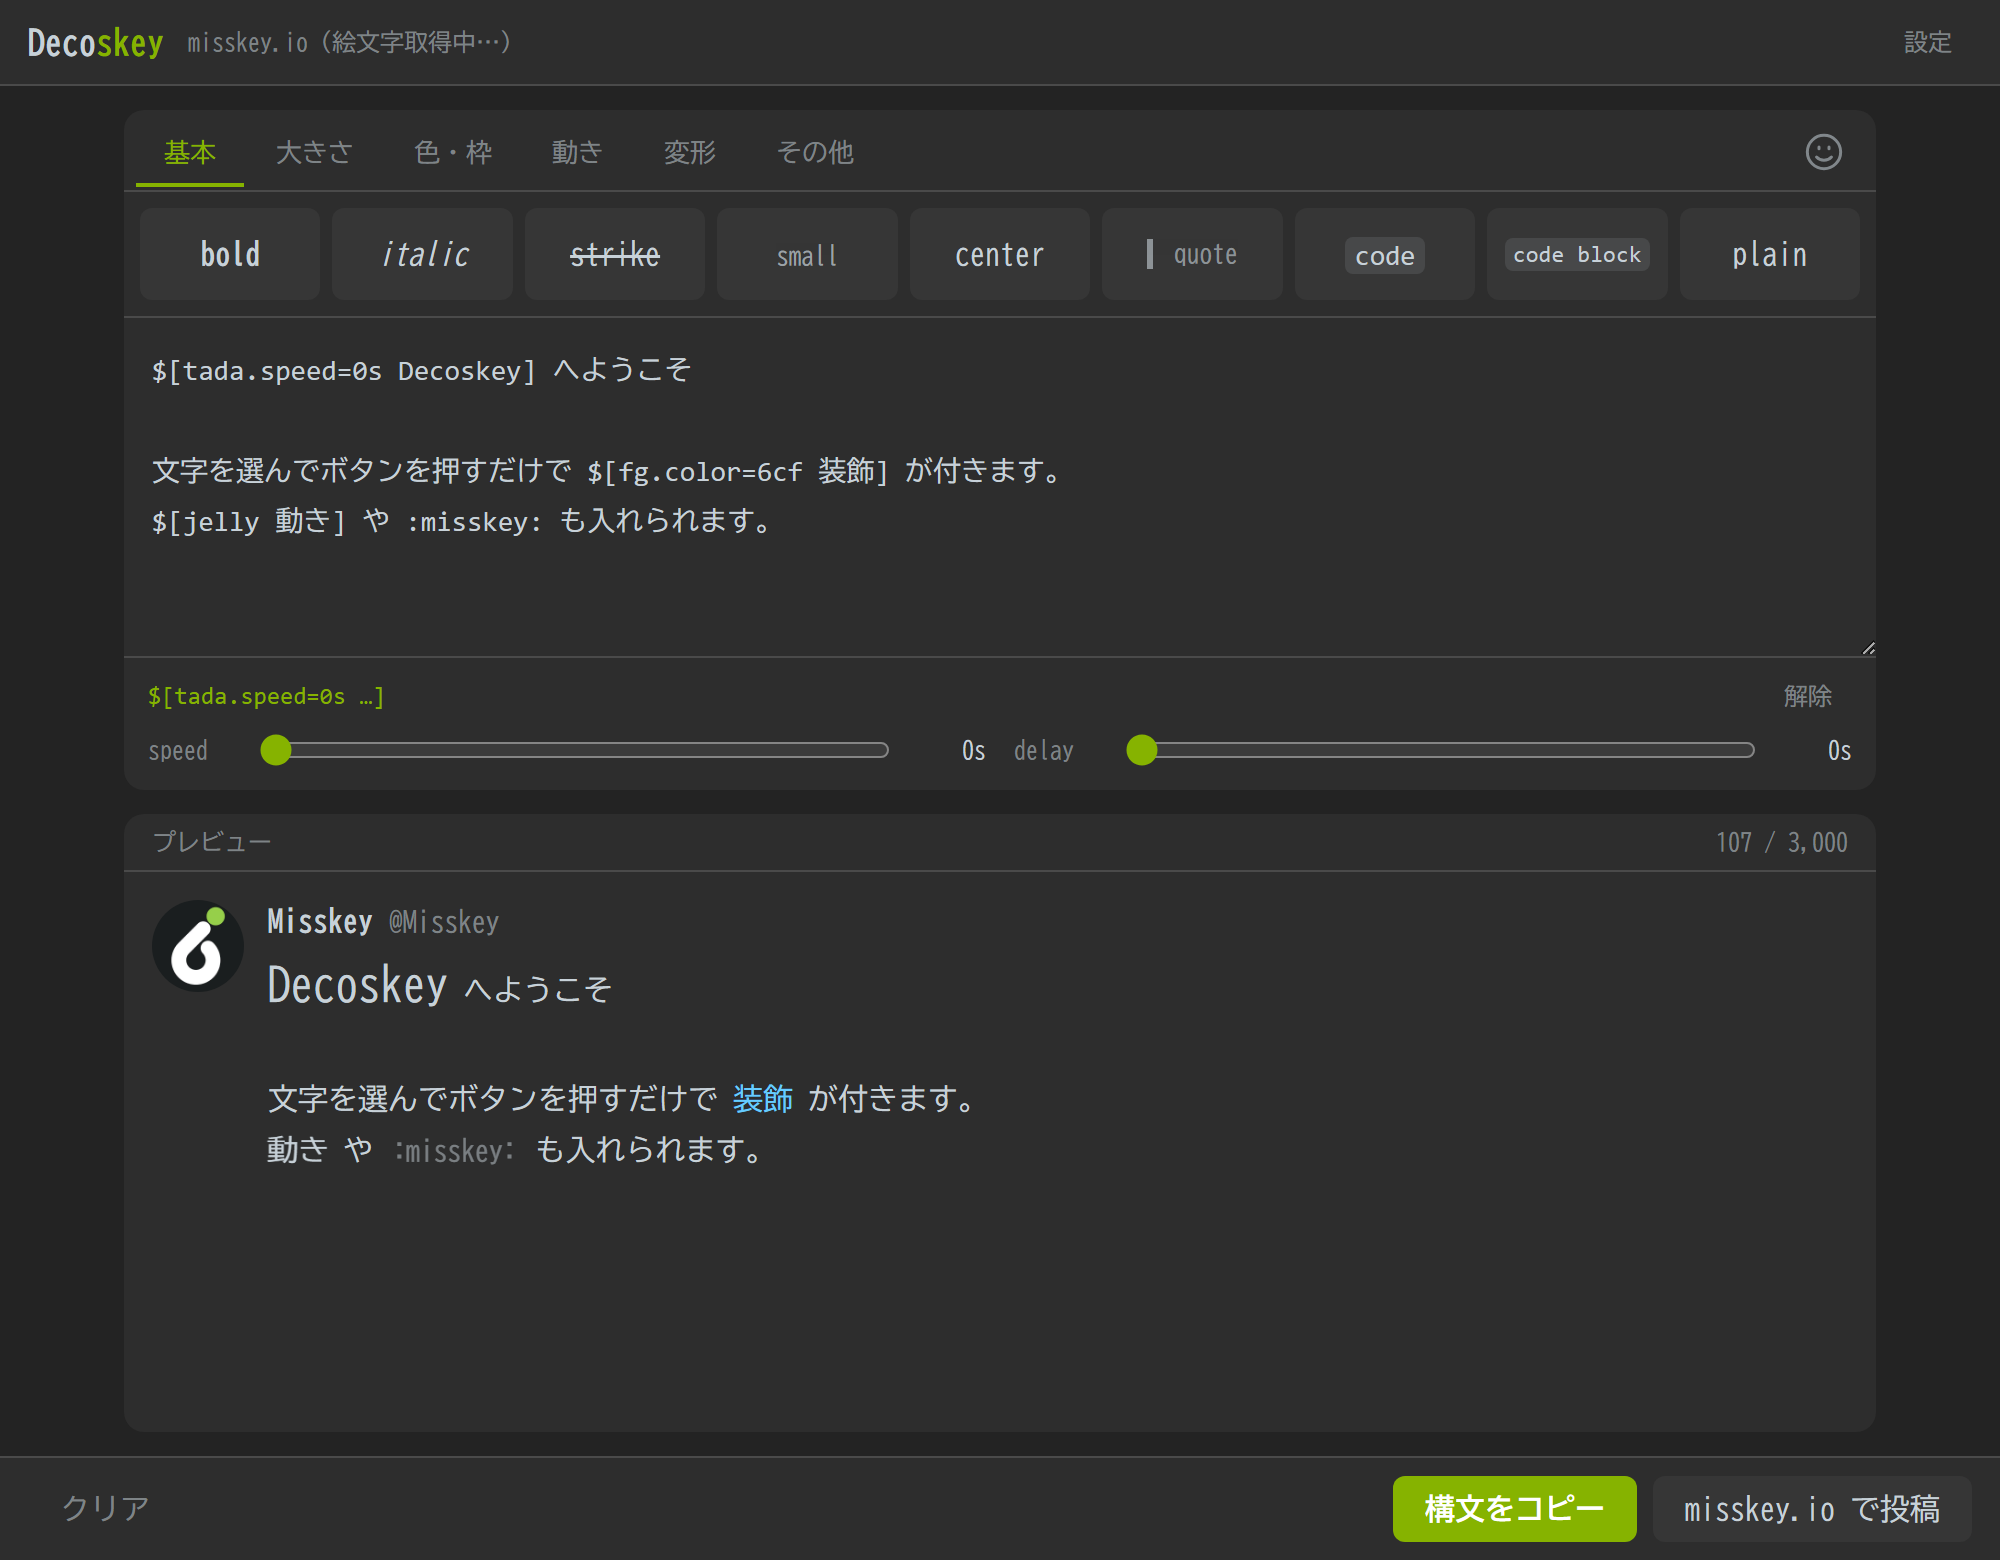
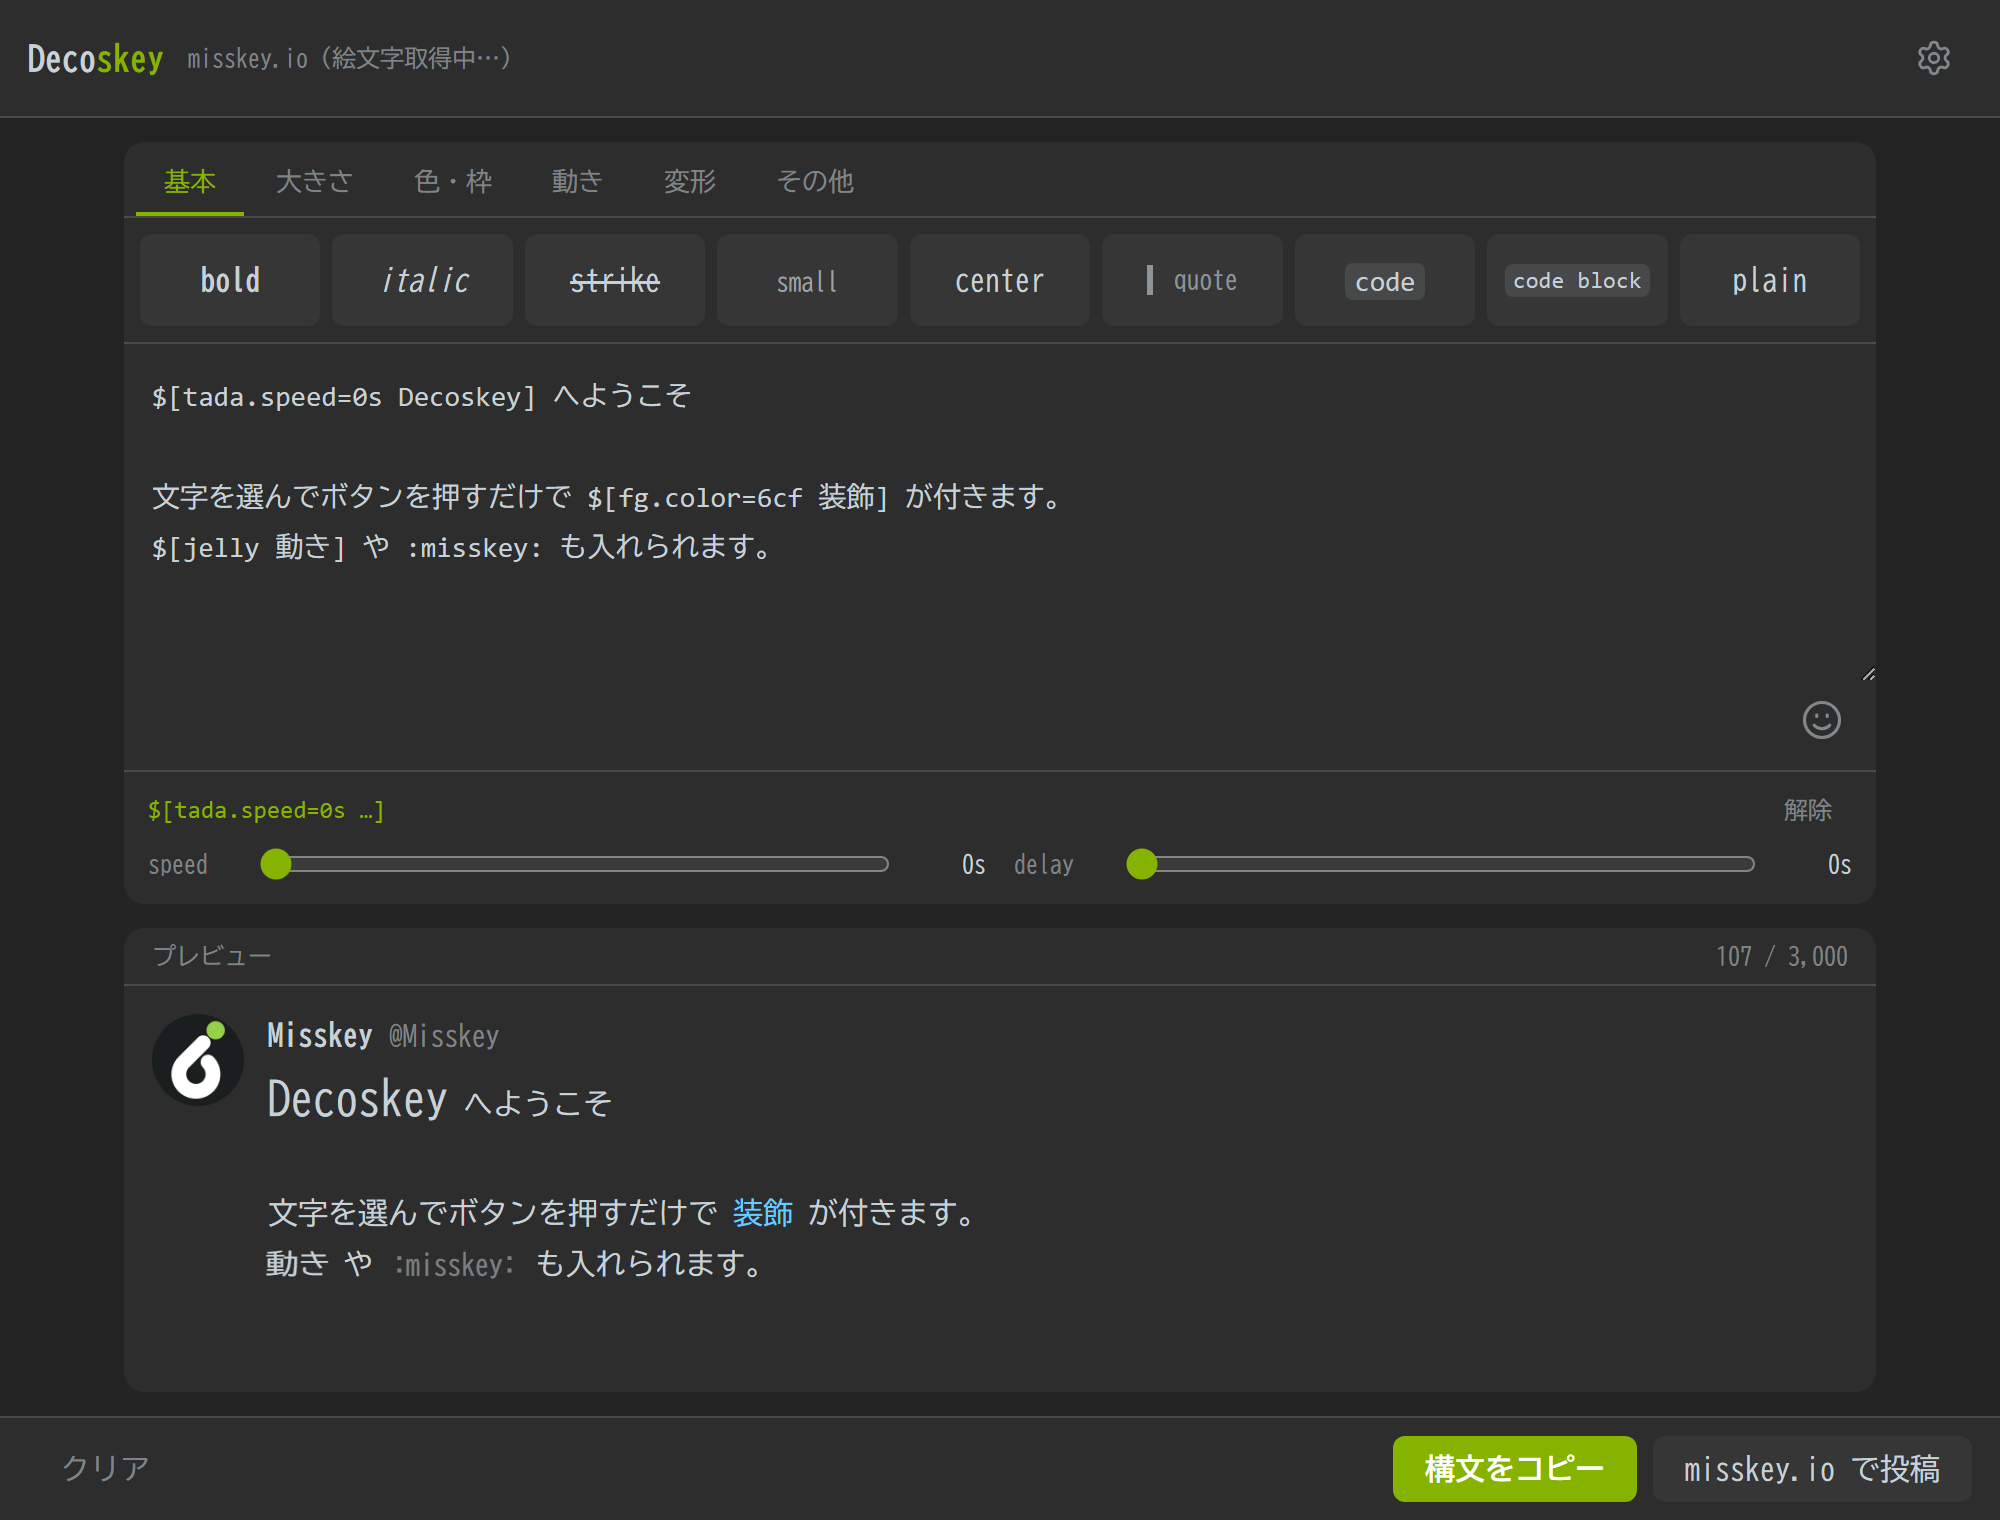
Improve mobile usability and start with an empty editor

diff --git a/src/App.tsx b/src/App.tsx
@@ -1,4 +1,5 @@
 import { useCallback, useEffect, useLayoutEffect, useMemo, useRef, useState } from 'react'
+import { Settings as SettingsIcon, Smile } from 'lucide-react'
 import { Toolbar } from './components/Toolbar'
 import { Preview } from './components/Preview'
 import { ParamPanel } from './components/ParamPanel'
@@ -19,19 +20,11 @@ import {
   type Settings,
 } from './lib/storage'
 
-const SAMPLE_TEXT = `$[tada.speed=0s Decoskey] へようこそ
-
-文字を選んでボタンを押すだけで $[fg.color=6cf 装飾] が付きます。
-$[jelly 動き] や :misskey: も入れられます。`
-
 const TEXT_LIMIT = 3000
 
 export default function App() {
   const [settings, setSettings] = useState<Settings>(() => loadSettings())
-  const [text, setText] = useState<string>(() => {
-    const draft = loadDraft()
-    return draft === '' ? SAMPLE_TEXT : draft
-  })
+  const [text, setText] = useState<string>(() => loadDraft())
   const [selection, setSelection] = useState({ start: 0, end: 0 })
   const [emojis, setEmojis] = useState<Emoji[]>([])
   const [emojiFetchedAt, setEmojiFetchedAt] = useState<number | null>(null)
@@ -226,8 +219,14 @@ export default function App() {
           {settings.host}
           {emojiLoading ? '（絵文字取得中…）' : emojis.length > 0 ? `（絵文字 ${emojis.length.toLocaleString('ja-JP')}）` : ''}
         </span>
-        <button type="button" className="btn btn-ghost btn-sm" onClick={() => setSettingsOpen(true)}>
-          設定
+        <button
+          type="button"
+          className="icon-btn"
+          onClick={() => setSettingsOpen(true)}
+          title="設定"
+          aria-label="設定"
+        >
+          <SettingsIcon size={19} strokeWidth={1.8} aria-hidden="true" />
         </button>
       </header>
 
@@ -235,7 +234,6 @@ export default function App() {
         <section className="card">
           <Toolbar
             onPick={handlePick}
-            onOpenEmoji={() => setPickerOpen(true)}
             animateSamples={settings.animateSamples}
             useAnim={settings.useAnim}
             advanced={settings.advanced}
@@ -255,6 +253,18 @@ export default function App() {
             onKeyUp={syncSelection}
             onKeyDown={handleKeyDown}
           />
+          <div className="editor-bar">
+            <button
+              type="button"
+              className="icon-btn"
+              onMouseDown={(e) => e.preventDefault()}
+              onClick={() => setPickerOpen(true)}
+              title="カスタム絵文字を挿入"
+              aria-label="カスタム絵文字を挿入"
+            >
+              <Smile size={21} strokeWidth={1.8} aria-hidden="true" />
+            </button>
+          </div>
           <ParamPanel span={currentSpan} onChangeArgs={handleChangeArgs} onUnwrap={handleUnwrap} />
         </section>
 

diff --git a/src/components/Toolbar.tsx b/src/components/Toolbar.tsx
@@ -1,13 +1,11 @@
 // 装飾ボタン群。ボタンの中身は構文名そのものに当の装飾を掛けた見本。
 
 import { useState, type MouseEvent as ReactMouseEvent } from 'react'
-import { Smile } from 'lucide-react'
 import { CATEGORIES, DECORATIONS, type CategoryId, type Deco } from '../lib/decorations'
 import { MfmView } from '../lib/mfmRender'
 
 type Props = {
   onPick: (deco: Deco) => void
-  onOpenEmoji: () => void
   animateSamples: boolean
   useAnim: boolean
   advanced: boolean
@@ -16,7 +14,7 @@ type Props = {
 /** ボタンにフォーカスを渡さず、入力欄の選択範囲を保ったままにする。 */
 const keepSelection = (e: ReactMouseEvent) => e.preventDefault()
 
-export function Toolbar({ onPick, onOpenEmoji, animateSamples, useAnim, advanced }: Props) {
+export function Toolbar({ onPick, animateSamples, useAnim, advanced }: Props) {
   const [category, setCategory] = useState<CategoryId>('basic')
   const decos = DECORATIONS.filter((d) => d.category === category)
 
@@ -36,16 +34,6 @@ export function Toolbar({ onPick, onOpenEmoji, animateSamples, useAnim, advanced
             {c.label}
           </button>
         ))}
-        <button
-          type="button"
-          className="tab tab-emoji"
-          onMouseDown={keepSelection}
-          onClick={onOpenEmoji}
-          title="カスタム絵文字を挿入"
-          aria-label="カスタム絵文字を挿入"
-        >
-          <Smile size={20} strokeWidth={1.8} aria-hidden="true" />
-        </button>
       </div>
 
       <div className={`deco-grid${animateSamples ? '' : ' is-frozen'}`}>

diff --git a/src/styles/theme.css b/src/styles/theme.css
@@ -185,19 +185,32 @@ textarea {
   border-bottom-color: var(--accent);
 }
 
-.tab-emoji {
-  display: flex;
+/* ヘッダの歯車と、入力欄の下に置く絵文字ボタン */
+.icon-btn {
+  display: inline-flex;
   align-items: center;
   justify-content: center;
-  margin-left: auto;
-  padding: 7px 10px;
+  width: 38px;
+  height: 38px;
+  border: none;
   border-radius: var(--radius-sm);
+  background: transparent;
   color: var(--fg-dim);
+  cursor: pointer;
 }
 
-.tab-emoji:hover {
+.icon-btn:hover {
   background: var(--panel-2);
   color: var(--accent);
+}
+
+/* 入力欄の直下・右端。スマホでも横スクロールなしで届く位置に固定する */
+.editor-bar {
+  display: flex;
+  align-items: center;
+  justify-content: flex-end;
+  gap: 4px;
+  padding: 0 8px 6px;
 }
 
 .deco-grid {
@@ -274,7 +287,7 @@ textarea {
 .editor {
   width: 100%;
   min-height: 170px;
-  padding: 14px;
+  padding: 14px 14px 8px;
   border: none;
   border-top: solid 1px var(--divider);
   background: transparent;
@@ -743,4 +756,17 @@ textarea {
   color: var(--fg);
   font-size: 13px;
   box-shadow: 0 6px 20px rgba(0, 0, 0, 0.35);
+}
+
+/* iOS は 16px 未満の入力欄をタップすると自動でズームするので、
+   スマホ幅では入力系のフォントを 16px 以上にしておく */
+@media (max-width: 768px) {
+  .editor,
+  .emoji-search,
+  .emoji-category,
+  .param-text,
+  .param select,
+  .setting input[type='text'] {
+    font-size: 16px;
+  }
 }
